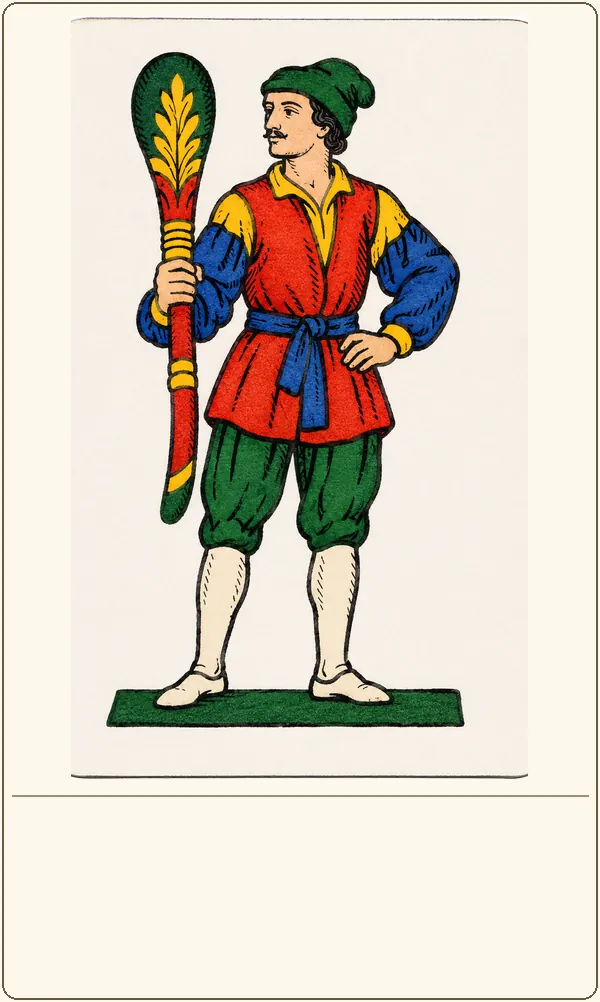
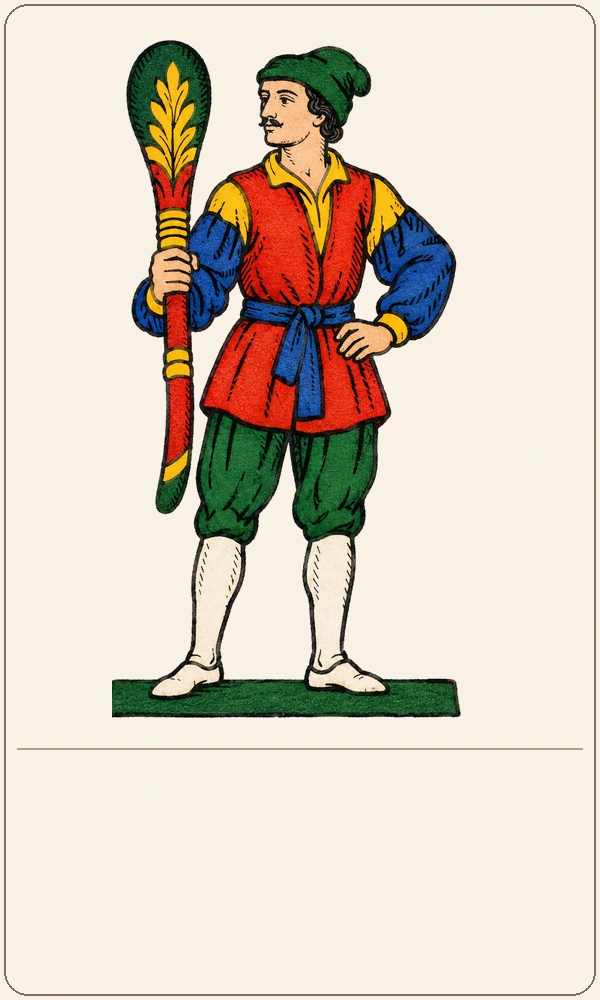
art(scopone): uniform game layout of both approved Contadini

Changed region(s): [[0.0, 0.0, 1.0, 1.0]]

diff --git a/scopone-magico/assets/cards/RIFERIMENTI_CONTADINO_BASTONI.md b/scopone-magico/assets/cards/RIFERIMENTI_CONTADINO_BASTONI.md
@@ -1,5 +1,5 @@
 # Scopone Alchemico — Contadino di Bastoni (v1)
-Stato: **proposta grafica in attesa di approvazione**. Unica nuova carta prodotta in questa esecuzione.
+Stato: **approvato** dal proprietario; successivamente normalizzato per il gioco al formato comune 600×1000.
 
 ## Riferimento stilistico reale e riproducibile
 - **Scansione dell'intero seme di Bastoni di un mazzo napoletano**, autore/fotografo **Despues**, caricata su Wikimedia Commons nel 2006: https://commons.wikimedia.org/wiki/File:Carte_da_gioco_napoletane_bastoni.jpg
@@ -18,7 +18,7 @@ Stato: **proposta grafica in attesa di approvazione**. Unica nuova carta prodott
 
 ## Asset realizzati
 - `contadino-bastoni-originale.webp` — illustrazione alla risoluzione artistica 922×1536 (rapporto circa 50:83,5). L'originale di generazione PNG resta disponibile nella consegna dell'artista.
-- `contadino-bastoni-gioco.webp` — immagine 600×1002, illustrazione leggermente ridotta e fascia inferiore **vuota**, riservata ai testi DOM/CSS.
+- `contadino-bastoni-gioco.webp` — immagine 600×1000, proporzioni preservate, sfondo avorio comune, fascia inferiore del 25% **vuota**, riservata ai testi DOM/CSS.
 - `contadino-bastoni.json` — metadati indipendenti dalle regole.
 
 Il valore **2**, il nome **Contadino**, il seme **Bastoni** e gli eventuali effetti devono essere mostrati dall'interfaccia in un livello testo separato. **Non** sono incorporati nei pixel delle immagini.
@@ -26,8 +26,8 @@ Il valore **2**, il nome **Contadino**, il seme **Bastoni** e gli eventuali effe
 ## Controllo di qualità e limiti (v1)
 Confronto visivo con Fante, Cavallo e Re della scansione citata:
 - Coerenti: personaggio intero, fascia verde alla base, bastone decorato, palette tradizionale, sfondo quasi bianco, colori ampi e contorni scuri.
-- Da valutare in approvazione: il viso e il tratteggio del nuovo Contadino risultano **più dettagliati e moderni** delle figure storiche; la versione di gioco mostra inoltre un contorno interno dovuto all'illustrazione originale. È una proposta stilistica, **non una replica fedele certificata** dell'illustratore tradizionale.
+- Da valutare in approvazione: il viso e il tratteggio del nuovo Contadino risultano **più dettagliati e moderni** delle figure storiche; la versione iniziale di gioco mostrava un contorno interno, rimosso nella normalizzazione 600×1000. È una proposta stilistica, **non una replica fedele certificata** dell'illustratore tradizionale.
 - Non è stata alterata alcuna carta numerale, nessun file dell'app e nessun motore/regola di gioco.
 
 ## Standard futuro proposto
-Riferimento unico per tutto il mazzo: la scansione citata, con ancoraggio alle tre figure dello stesso seme; figure intere; base cromatica del seme; palette piatta; niente cornici decorative o fondali fantasy; testo delle abilità sempre esterno al disegno. Lo standard diventerà vincolante **solo dopo approvazione artistica**.
+Riferimento unico per tutto il mazzo: la scansione citata, con ancoraggio alle tre figure dello stesso seme; figure intere; base cromatica del seme; palette piatta; niente cornici decorative o fondali fantasy; testo delle abilità sempre esterno al disegno. La figura è stata approvata; la guida tecnica attuale è in `STANDARD_FORMATO_600x1000.md`.

diff --git a/scopone-magico/assets/cards/STANDARD_FORMATO_600x1000.md b/scopone-magico/assets/cards/STANDARD_FORMATO_600x1000.md
@@ -1,0 +1,26 @@
+# Scopone Alchemico · Standard di dimensionamento carte per smartphone
+
+**Versione 1, novembre 2026.** Applicato ai Contadini di Bastoni e Coppe.
+
+## File di gioco
+- File principali: `contadino-bastoni-gioco.webp`, `contadino-coppe-gioco.webp`
+- Dimensioni identiche: **600 × 1000 pixel**, ritratto **3:5**
+- Anteprime opzionali: `contadino-bastoni-anteprima-300x500.webp` e `contadino-coppe-anteprima-300x500.webp`, **300 × 500 pixel**
+- Zona superiore per l'illustrazione: **0–748 px** (75% circa)
+- Fascia inferiore libera per testi e abilità: **749–999 px** (25% circa); sottile riga divisoria sul confine
+- Stesso sfondo nominale avorio `#F8F2E7`, stessa cornice sottile scura, arrotondata.
+- Figure e semi sono diverse per pose, abiti, fisionomie, colori e scala orizzontale naturale; si uniformano **l'altezza occupata e la linea di base**, senza deformazioni.
+
+## Struttura separata
+L'illustrazione è un **asset immagine**; valore, nome, seme e testo degli effetti rimangono gestiti da **HTML/CSS** e dal motore.
+La fascia inferiore deve essere popolata dall'interfaccia dinamicamente e non contiene parole disegnate nei file WebP.
+
+## Metodologia
+- Ridimensionamento con interpolazione Lanczos e rapporto d'aspetto bloccato.
+- Recupero delle illustrazioni già accettate; **nessuna rigenerazione artistica**.
+- Uniformazione dello sfondo esterno alle figure e creazione di un'unica cornice per carta.
+- Sono stati lasciati intatti gli **originali** `*-originale.webp`, che non devono essere ridimensionati né sovrascritti durante l'ottimizzazione del gioco.
+- Nessuna modifica al motore matematico, alle regole o alle carte numerali.
+
+## Test manuale
+Le immagini sono state aperte e confrontate affiancate: proporzioni 3:5, fondi uguali, silhouette complete, linea di terra allineata, parte inferiore vuota. La leggibilità effettiva del testo a schermo resta responsabilità della UI del gioco.

diff --git a/scopone-magico/assets/cards/RIFERIMENTI_CONTADINO_COPPE.md b/scopone-magico/assets/cards/RIFERIMENTI_CONTADINO_COPPE.md
@@ -15,7 +15,7 @@ Per eliminare qualsiasi ambiguità:
 3. Sono stati copiati nell'immagine finale **senza alcuna modifica** tutti i pixel all'interno della sagoma: **399.892 pixel originali**.
 4. Esclusivamente la carta fuori sagoma ha ricevuto la correzione colorimetrica.
 5. Mediana del fondo misurata sul Bastoni: **RGB(247,240,231)**; mediana del Coppe ripristinato: **RGB(247,240,231)**. Le variazioni di grana della stampa restano naturali.
-6. L'illustrazione è stata esportata in WebP ad alta qualità e la variante per il gioco a 600 × 1007.
+6. L'illustrazione è stata esportata in WebP ad alta qualità e la variante per il gioco a 600 × 1000 (normalizzazione comune con Bastoni).
 
 ## Standard del mazzo
 - **Tinta della carta comune fra tutti i semi**, misurata sul modello approvato. Valore nominale di riferimento: `#F8F2E6`, soggetto a variazioni minime per la grana.
@@ -24,7 +24,7 @@ Per eliminare qualsiasi ambiguità:
 
 ## File della carta
 - `contadino-coppe-originale.webp`: figura autentica del progetto con fondo uniformato
-- `contadino-coppe-gioco.webp`: formato mobile con fascia inferiore libera
+- `contadino-coppe-gioco.webp`: formato mobile 600×1000, stesso ingombro del Bastoni e fascia inferiore del 25% libera
 - `contadino-coppe.json`: metadati, nessuna logica di gioco
 
 Questa modifica non altera il motore matematico, né le altre carte.
